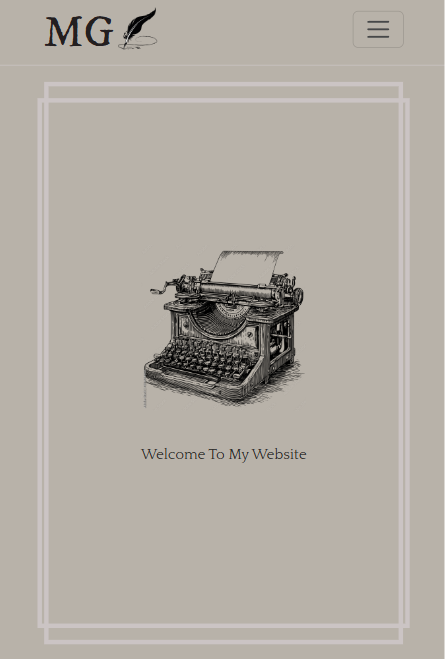
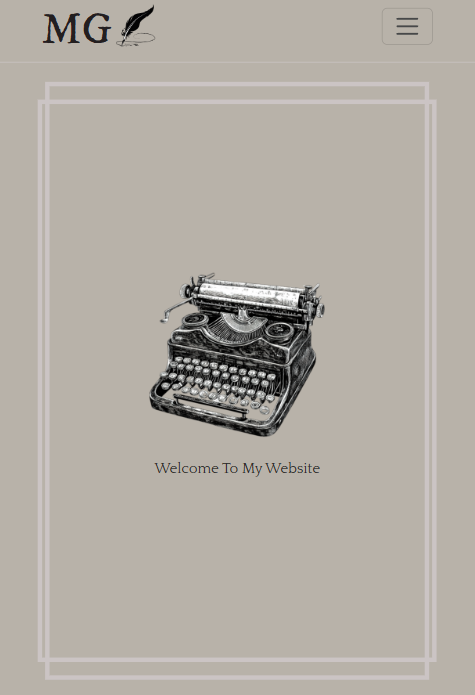
update image

diff --git a/style.css b/style.css
@@ -86,12 +86,12 @@ h1 {
 
 
 .center img {
-    height: 45vh;
+    height: 40vh;
     width: auto;
 }
 
 .center p {
-    margin-top: 5vh;
+    margin-top: 2vh;
     font-size: 3rem;
     font-family: 'Quattrocento', cursive;
     color: #2e2d2b;
@@ -469,4 +469,10 @@ h1 {
         font-size: 0.5rem;
     }
 
+    .about-me h2 {
+        font-size: 2.5rem;
+    }
+    .about-me h3 {
+        font-size: 1.7rem;
+    }
 }
